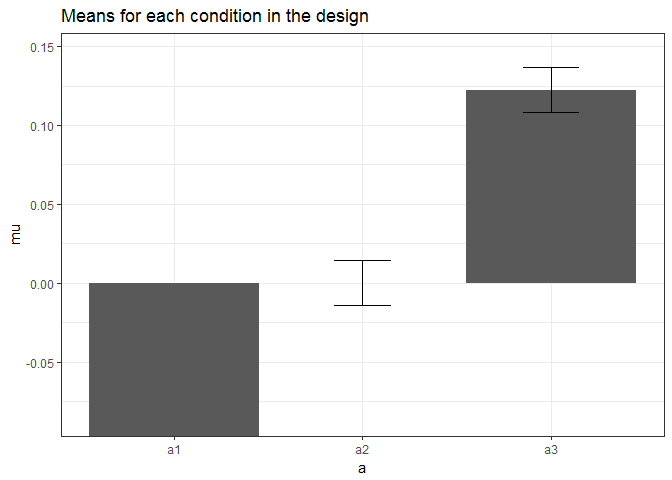
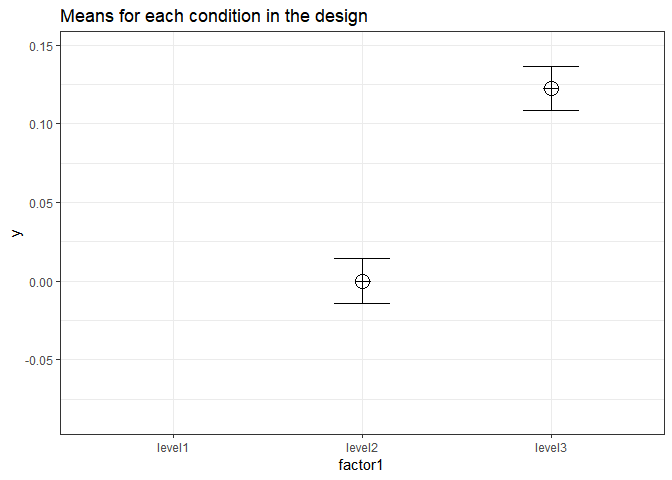
update validation

diff --git a/validation_files/validation_power_between.md b/validation_files/validation_power_between.md
@@ -72,7 +72,8 @@ design_result <- ANOVA_design(string = string,
                    mu = mu, 
                    sd = sd, 
                    r = r, 
-                   p_adjust = "none")
+                   p_adjust = "none",
+                   labelnames = c("factor1", "level1", "level2", "level3"))
 ```
 
 ![](validation_power_between_files/figure-markdown_github/unnamed-chunk-4-1.png)
@@ -82,21 +83,21 @@ ANOVA_power(design_result, nsims = nsims)
 ```
 
     ## Power and Effect sizes for ANOVA tests
-    ##            power effect size
-    ## anova_p_a 79.958       0.001
+    ##               power effect size
+    ## anova_factor1    83       0.001
     ## 
     ## Power and Effect sizes for contrasts
-    ##                             power effect size
-    ## paired_comparison_p_a1 - a2 33.98       -0.02
-    ## paired_comparison_p_a1 - a3 87.30       -0.04
-    ## paired_comparison_p_a2 - a3 34.22       -0.02
+    ##                                                   power effect size
+    ## paired_comparison_factor1_level1 - factor1_level2    39       -0.03
+    ## paired_comparison_factor1_level1 - factor1_level3    91       -0.06
+    ## paired_comparison_factor1_level2 - factor1_level3    36       -0.03
 
 The results of the simulation are indeed very close to 80%.
 
 Four conditions, very large effect size
 ---------------------------------------
 
-We can simulate a One-Way ANOVA with an alpha of 0.05, a sample size of 15 per group for four groups, and an effect size to achieve 95% power.
+We can simulate a One-Way ANOVA with an alpha of 0.01, a sample size of 15 per group for four groups, and an effect size to achieve 90% power.
 
 ``` r
 K <- 4
@@ -128,7 +129,8 @@ design_result <- ANOVA_design(string = string,
                    mu = mu, 
                    sd = sd, 
                    r = r, 
-                   p_adjust = "none")
+                   p_adjust = "none",
+                   labelnames = c("factor1", "level1", "level2", "level3"))
 ```
 
 ![](validation_power_between_files/figure-markdown_github/unnamed-chunk-6-1.png)
@@ -138,17 +140,17 @@ ANOVA_power(design_result, nsims = nsims)
 ```
 
     ## Power and Effect sizes for ANOVA tests
-    ##            power effect size
-    ## anova_p_a 94.898       0.272
+    ##               power effect size
+    ## anova_factor1    91       0.263
     ## 
     ## Power and Effect sizes for contrasts
-    ##                             power effect size
-    ## paired_comparison_p_a1 - a2  5.12        0.00
-    ## paired_comparison_p_a1 - a3 84.69       -0.79
-    ## paired_comparison_p_a1 - a4 84.57       -0.79
-    ## paired_comparison_p_a2 - a3 84.59       -0.79
-    ## paired_comparison_p_a2 - a4 84.55       -0.79
-    ## paired_comparison_p_a3 - a4  4.98        0.00
+    ##                                                   power effect size
+    ## paired_comparison_factor1_level1 - factor1_level2    10       -0.06
+    ## paired_comparison_factor1_level1 - factor1_level3    86       -1.13
+    ## paired_comparison_factor1_level1 - factor1_NA        84       -1.09
+    ## paired_comparison_factor1_level2 - factor1_level3    80       -1.07
+    ## paired_comparison_factor1_level2 - factor1_NA        77       -1.03
+    ## paired_comparison_factor1_level3 - factor1_NA         5        0.04
 
 The result of the simulation is a power that is very close to the intended 95% power. Note that the mean observed effect size is larger than the true effect size (because eta-squared is upwardly biased, see Albers & Lakens, 2018).
 
@@ -187,24 +189,25 @@ design_result <- ANOVA_design(string = string,
                    mu = mu, 
                    sd = sd, 
                    r = r, 
-                   p_adjust = "none")
+                   p_adjust = "none",
+                   labelnames = c("factor1", "level1", "level2"))
 ```
 
 ![](validation_power_between_files/figure-markdown_github/unnamed-chunk-8-1.png)
 
 ``` r
-power_result <- ANOVA_power(design_result, nsims = nsims)
+power_result <- ANOVA_power(design_result, nsims = 1000)
 ```
 
     ## Power and Effect sizes for ANOVA tests
-    ##            power effect size
-    ## anova_p_a 94.876       0.125
+    ##               power effect size
+    ## anova_factor1  94.9        0.12
     ## 
     ## Power and Effect sizes for contrasts
-    ##                             power effect size
-    ## paired_comparison_p_a1 - a2 94.88       -0.52
+    ##                                                   power effect size
+    ## paired_comparison_factor1_level1 - factor1_level2  94.9       -0.73
 
-The result of the simulation is a power that is very close to the intended 95% power.
+The result of the simulation is a power that is very close to the intended 90% power.
 
 We can plot the p-value distribution for the ANOVA:
 

diff --git a/validation_files/validation_effect_sizes_between.md b/validation_files/validation_effect_sizes_between.md
@@ -58,7 +58,8 @@ design_result <- ANOVA_design(string = string,
                    mu = mu, 
                    sd = sd, 
                    r = r, 
-                   p_adjust = "none")
+                   p_adjust = "none",
+                   labelnames = c("factor1", "level1", "level2", "level3"))
 ```
 
 ![](validation_effect_sizes_between_files/figure-markdown_github/unnamed-chunk-4-1.png)
@@ -68,14 +69,14 @@ ANOVA_power(design_result, nsims = nsims)
 ```
 
     ## Power and Effect sizes for ANOVA tests
-    ##           power effect size
-    ## anova_p_a   100        0.01
+    ##               power effect size
+    ## anova_factor1   100        0.01
     ## 
     ## Power and Effect sizes for contrasts
-    ##                             power effect size
-    ## paired_comparison_p_a1 - a2   100       -0.09
-    ## paired_comparison_p_a1 - a3   100       -0.17
-    ## paired_comparison_p_a2 - a3   100       -0.09
+    ##                                                   power effect size
+    ## paired_comparison_factor1_level1 - factor1_level2   100       -0.12
+    ## paired_comparison_factor1_level1 - factor1_level3   100       -0.25
+    ## paired_comparison_factor1_level2 - factor1_level3   100       -0.12
 
 The resulting effect size estimate from the simulation is very close to 0.0099
 
@@ -100,7 +101,8 @@ design_result <- ANOVA_design(string = string,
                    mu = mu, 
                    sd = sd, 
                    r = r, 
-                   p_adjust = "none")
+                   p_adjust = "none",
+                   labelnames = c("factor1", "level1", "level2", "level3", "level4"))
 ```
 
 ![](validation_effect_sizes_between_files/figure-markdown_github/unnamed-chunk-6-1.png)
@@ -110,17 +112,17 @@ ANOVA_power(design_result, nsims = nsims)
 ```
 
     ## Power and Effect sizes for ANOVA tests
-    ##           power effect size
-    ## anova_p_a   100       0.059
+    ##               power effect size
+    ## anova_factor1   100       0.059
     ## 
     ## Power and Effect sizes for contrasts
-    ##                              power effect size
-    ## paired_comparison_p_a1 - a2   5.14        0.00
-    ## paired_comparison_p_a1 - a3 100.00       -0.35
-    ## paired_comparison_p_a1 - a4 100.00       -0.35
-    ## paired_comparison_p_a2 - a3 100.00       -0.35
-    ## paired_comparison_p_a2 - a4 100.00       -0.35
-    ## paired_comparison_p_a3 - a4   5.03        0.00
+    ##                                                   power effect size
+    ## paired_comparison_factor1_level1 - factor1_level2     1         0.0
+    ## paired_comparison_factor1_level1 - factor1_level3   100        -0.5
+    ## paired_comparison_factor1_level1 - factor1_level4   100        -0.5
+    ## paired_comparison_factor1_level2 - factor1_level3   100        -0.5
+    ## paired_comparison_factor1_level2 - factor1_level4   100        -0.5
+    ## paired_comparison_factor1_level3 - factor1_level4     3         0.0
 
 Results are very close to 0.588.
 
@@ -145,7 +147,8 @@ design_result <- ANOVA_design(string = string,
                    mu = mu, 
                    sd = sd, 
                    r = r, 
-                   p_adjust = "none")
+                   p_adjust = "none",
+                   labelnames = c("factor1", "level1", "level2"))
 ```
 
 ![](validation_effect_sizes_between_files/figure-markdown_github/unnamed-chunk-8-1.png)
@@ -155,11 +158,11 @@ ANOVA_power(design_result, nsims = nsims)
 ```
 
     ## Power and Effect sizes for ANOVA tests
-    ##           power effect size
-    ## anova_p_a   100       0.138
+    ##               power effect size
+    ## anova_factor1   100       0.138
     ## 
     ## Power and Effect sizes for contrasts
-    ##                             power effect size
-    ## paired_comparison_p_a1 - a2   100       -0.57
+    ##                                                   power effect size
+    ## paired_comparison_factor1_level1 - factor1_level2   100        -0.8
 
 The results are very close to is simulation should yield a small effect size (0.1379)

diff --git a/validation_files/validation_power_within.md b/validation_files/validation_power_within.md
@@ -62,6 +62,8 @@ ES
 mu <- mu_from_ES(K = K, ES = ES)
 
 string = paste(K,"w",sep="")
+p_adjust = "none"
+labelnames <- c("speed", "fast", "slow")
 ```
 
 We create the within design, and run the simulation
@@ -72,7 +74,8 @@ design_result <- ANOVA_design(string = string,
                    mu = mu, 
                    sd = sd, 
                    r = r, 
-                   p_adjust = "none")
+                   p_adjust = "none",
+                   labelnames = labelnames)
 ```
 
 ![](validation_power_within_files/figure-markdown_github/unnamed-chunk-4-1.png)
@@ -82,11 +85,11 @@ ANOVA_power(design_result, nsims = nsims)
 ```
 
     ## Power and Effect sizes for ANOVA tests
-    ##            power effect size
-    ## anova_p_a 80.507       0.216
+    ##             power effect size
+    ## anova_speed    78       0.197
     ## 
     ## Power and Effect sizes for contrasts
-    ##                             power effect size
-    ## paired_comparison_p_a1 - a2 80.51       -0.51
+    ##                                           power effect size
+    ## paired_comparison_speed_fast - speed_slow    78       -0.47
 
 The results of the simulation are indeed very close to 80.777%. Note that the current version of the program calculates Cohen's dz effect sizes for paired comparisons - which here given the correlation of 0.5 is also 0.5 for a medium effect size.
